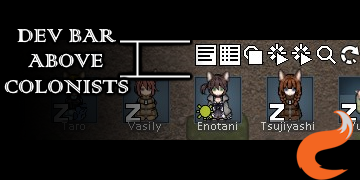
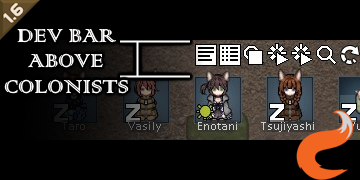
1.6.4488

Changed region(s): [[0.0, 0.0, 0.1222, 0.2222]]

diff --git a/1.6/Source/Patch_Mod_LTOColonyGroupsFinal.cs b/1.6/Source/Patch_Mod_LTOColonyGroupsFinal.cs
@@ -1,0 +1,40 @@
+using System.Collections.Generic;
+using System.Reflection;
+using System.Reflection.Emit;
+using HarmonyLib;
+using UnityEngine;
+using Verse;
+
+namespace ColonistBarBelowDev {
+	public static class Patch_Mod_LTOColonyGroupsFinal {
+		private static readonly FieldInfo fieldOriginal = AccessTools.Field("TacticalGroups.TacticalGroupsSettings:ColonistBarPositionY");
+		private static readonly MethodInfo helper = AccessTools.Method(typeof(Patch_Mod_LTOColonyGroupsFinal), nameof(GetColonistBarPositionY));
+
+		private static float GetColonistBarPositionY() {
+			return Helper.AdjustY((float)fieldOriginal.GetValue(null));
+		}
+
+		public static void PatchAll(Harmony h) {
+			Log.Message("[DevModeColonistBar] Colony Groups mod detected.");
+			Log.Warning("[DevModeColonistBar] Not patching for mod compat - not supported on 1.6 yet.");
+			// Patch_CalculateDrawLocs(h);
+		}
+
+		private static void Patch_CalculateDrawLocs(Harmony h) {
+			MethodInfo method = AccessTools.Method("TacticalGroups.ColonistBarDrawLocsFinder:CalculateDrawLocs", new[] { typeof(List<Rect>), typeof(float), typeof(bool), typeof(int) });
+			HarmonyMethod transpiler = new HarmonyMethod(AccessTools.Method(typeof(Patch_Mod_LTOColonyGroupsFinal), nameof(Transpiler)));
+			h.Patch(method, transpiler: transpiler);
+			Log.Message("[DevModeColonistBar] Patched TacticalGroups.ColonistBarDrawLocsFinder.CalculateDrawLocs");
+		}
+
+		private static IEnumerable<CodeInstruction> Transpiler(IEnumerable<CodeInstruction> instructions) {
+			List<CodeInstruction> list = new List<CodeInstruction>(instructions);
+
+			for (int i = 0; i < list.Count; i++) {
+				if (list[i].LoadsField(fieldOriginal)) list[i] = new CodeInstruction(OpCodes.Call, helper);
+			}
+
+			return list;
+		}
+	}
+}

diff --git a/1.6/Source/Properties/AssemblyInfo.cs b/1.6/Source/Properties/AssemblyInfo.cs
@@ -1,0 +1,36 @@
+using System.Reflection;
+using System.Runtime.CompilerServices;
+using System.Runtime.InteropServices;
+
+// General Information about an assembly is controlled through the following
+// set of attributes. Change these attribute values to modify the information
+// associated with an assembly.
+[assembly: AssemblyTitle("ColonistBarBelowDev")]
+[assembly: AssemblyDescription("")]
+[assembly: AssemblyConfiguration("")]
+[assembly: AssemblyCompany("")]
+[assembly: AssemblyProduct("ColonistBarBelowDev")]
+[assembly: AssemblyCopyright("Copyright © 2023")]
+[assembly: AssemblyTrademark("")]
+[assembly: AssemblyCulture("")]
+
+// Setting ComVisible to false makes the types in this assembly not visible
+// to COM components.  If you need to access a type in this assembly from
+// COM, set the ComVisible attribute to true on that type.
+[assembly: ComVisible(false)]
+
+// The following GUID is for the ID of the typelib if this project is exposed to COM
+[assembly: Guid("2a3aaf2e-c5d5-41f8-8884-a3265fd65ec3")]
+
+// Version information for an assembly consists of the following four values:
+//
+//      Major Version
+//      Minor Version
+//      Build Number
+//      Revision
+//
+// You can specify all the values or you can default the Build and Revision Numbers
+// by using the '*' as shown below:
+// [assembly: AssemblyVersion("1.0.*")]
+[assembly: AssemblyVersion("1.0.0.0")]
+[assembly: AssemblyFileVersion("1.0.0.0")]

diff --git a/1.6/Source/ModMain.cs b/1.6/Source/ModMain.cs
@@ -1,0 +1,26 @@
+using System;
+using RimWorld;
+using UnityEngine;
+using Verse;
+
+namespace ColonistBarBelowDev {
+	public class ModMain : Mod {
+		public Settings Settings => GetSettings<Settings>();
+		public ModMain(ModContentPack content) : base(content) { }
+
+		public override string SettingsCategory() {
+			return Content.Name;
+		}
+		public override void DoSettingsWindowContents(Rect inRect) {
+			Listing_Standard listing = new Listing_Standard();
+			listing.Begin(inRect);
+			string label = $"{"Foxy.ColonistBarBelowDev.Offset".Translate().Trim()} {Settings.offset} ";
+			float value = listing.SliderLabeled(label, Settings.offset, 0, UI.screenHeight / 4);
+			if(value != Settings.offset && Find.UIRoot is UIRoot_Play root) {
+				root.mapUI.colonistBar.MarkColonistsDirty();
+			}
+			Settings.offset = (float)Math.Round(value);
+			listing.End();
+		}
+	}
+}

diff --git a/1.6/Source/Extensions.cs b/1.6/Source/Extensions.cs
@@ -1,0 +1,22 @@
+using UnityEngine;
+using Verse;
+
+namespace ColonistBarBelowDev {
+	public static class Extensions {
+		public static bool IntField(this Listing listing, string label, ref int value, ref string buffer) {
+			Rect rect = listing.GetRect(Text.LineHeight);
+			float labelWidth = Text.CalcSize(label).x + 10;
+			Rect labelRect = new Rect(rect.x, rect.y, labelWidth, rect.height);
+			Rect valueRect = new Rect(rect.x + labelWidth, rect.y, 200f, rect.height);
+			if (buffer == null) buffer = value.ToString();
+			TextAnchor old = Text.Anchor;
+			Text.Anchor = TextAnchor.MiddleLeft;
+			Widgets.Label(labelRect, label);
+			int previousValue = value;
+			Widgets.TextFieldNumeric(valueRect, ref value, ref buffer);
+			Text.Anchor = old;
+			listing.Gap(listing.verticalSpacing);
+			return previousValue != value;
+		}
+	}
+}

diff --git a/1.6/Source/ModCompatibility.cs b/1.6/Source/ModCompatibility.cs
@@ -1,0 +1,20 @@
+using System.Linq;
+using HarmonyLib;
+using Verse;
+
+namespace ColonistBarBelowDev {
+	public static class ModCompatibility {
+		public static bool IsModActive(string packageId) {
+			packageId = packageId.ToLower();
+			return ModLister.AllInstalledMods.Any(x => x.Active && x.packageIdLowerCase == packageId);
+		}
+
+		public static bool LTOColonyGroupsFinal => IsModActive("DerekBickley.LTOColonyGroupsFinal");
+		public static bool ColorCodedMoodBar => IsModActive("CrashM.ColorCodedMoodBar.11");
+
+		public static void PatchAll(Harmony h) {
+			if (LTOColonyGroupsFinal) Patch_Mod_LTOColonyGroupsFinal.PatchAll(h);
+			// if (ColorCodedMoodBar) Patch_Mod_ColorCodedMoodBar.PatchAll(h);
+		}
+	}
+}

diff --git a/1.6/Source/Patch_DevMode.cs b/1.6/Source/Patch_DevMode.cs
@@ -1,0 +1,21 @@
+using System.Reflection;
+using HarmonyLib;
+using RimWorld;
+using Verse;
+
+namespace ColonistBarBelowDev {
+	[HarmonyPatch(typeof(Prefs), nameof(Prefs.DevMode), MethodType.Setter)]
+	internal class Patch_DevMode {
+		private static readonly FieldInfo fieldData = AccessTools.Field(typeof(Prefs), "data");
+		private static PrefsData Data => (PrefsData)fieldData.GetValue(null);
+
+		public static void Prefix(out bool __state) {
+			__state = Data.devMode;
+		}
+		public static void Postfix(bool __state) {
+			if (__state != Data.devMode && Find.UIRoot is UIRoot_Play root) {
+				root.mapUI.colonistBar.MarkColonistsDirty();
+			}
+		}
+	}
+}

diff --git a/1.6/Source/Settings.cs b/1.6/Source/Settings.cs
@@ -1,0 +1,21 @@
+using Verse;
+
+namespace ColonistBarBelowDev {
+	public class Settings : ModSettings {
+		private static Settings instance;
+		public static Settings Instance {
+			get {
+				if (instance == null) instance = LoadedModManager.GetMod<ModMain>().Settings;
+				return instance;
+			}
+		}
+
+		public static float Offset => Instance.offset;
+
+		public float offset = 36f;
+
+		public override void ExposeData() {
+			Scribe_Values.Look(ref offset, "offset");
+		}
+	}
+}

diff --git a/1.6/Source/Patch_GetDrawLoc.cs b/1.6/Source/Patch_GetDrawLoc.cs
@@ -1,0 +1,12 @@
+using HarmonyLib;
+using RimWorld;
+using UnityEngine;
+
+namespace ColonistBarBelowDev {
+	[HarmonyPatch(typeof(ColonistBarDrawLocsFinder), "GetDrawLoc")]
+	public static class Patch_GetDrawLoc {
+		public static void Postfix(ref Vector2 __result) {
+			__result = new Vector2(__result.x, Helper.AdjustY(__result.y));
+		}
+	}
+}

diff --git a/1.6/Source/Static.cs b/1.6/Source/Static.cs
@@ -1,0 +1,13 @@
+using HarmonyLib;
+using Verse;
+
+namespace ColonistBarBelowDev {
+	[StaticConstructorOnStartup]
+	public static class Static {
+		static Static() {
+			Harmony h = new Harmony("Foxy.ColonistBarBelowDev");
+			h.PatchAll();
+			ModCompatibility.PatchAll(h);
+		}
+	}
+}

diff --git a/1.6/Source/Helper.cs b/1.6/Source/Helper.cs
@@ -1,0 +1,10 @@
+using Verse;
+
+namespace ColonistBarBelowDev {
+	public static class Helper {
+		public static float AdjustY(float original) {
+			if (!Prefs.DevMode) return original;
+			return original - 21f + Settings.Offset;
+		}
+	}
+}

diff --git a/README.md b/README.md
@@ -23,6 +23,10 @@ And maybe others. Feel free to report incompatible mods.
 
 # ![Changelog](https://i.postimg.cc/k4T4mtyF/h-Changelog.png)
 
+#### 12.06.25
+
+- 1.6.**4488** support.
+
 #### 21.03.24
 
 - 1.5 support
